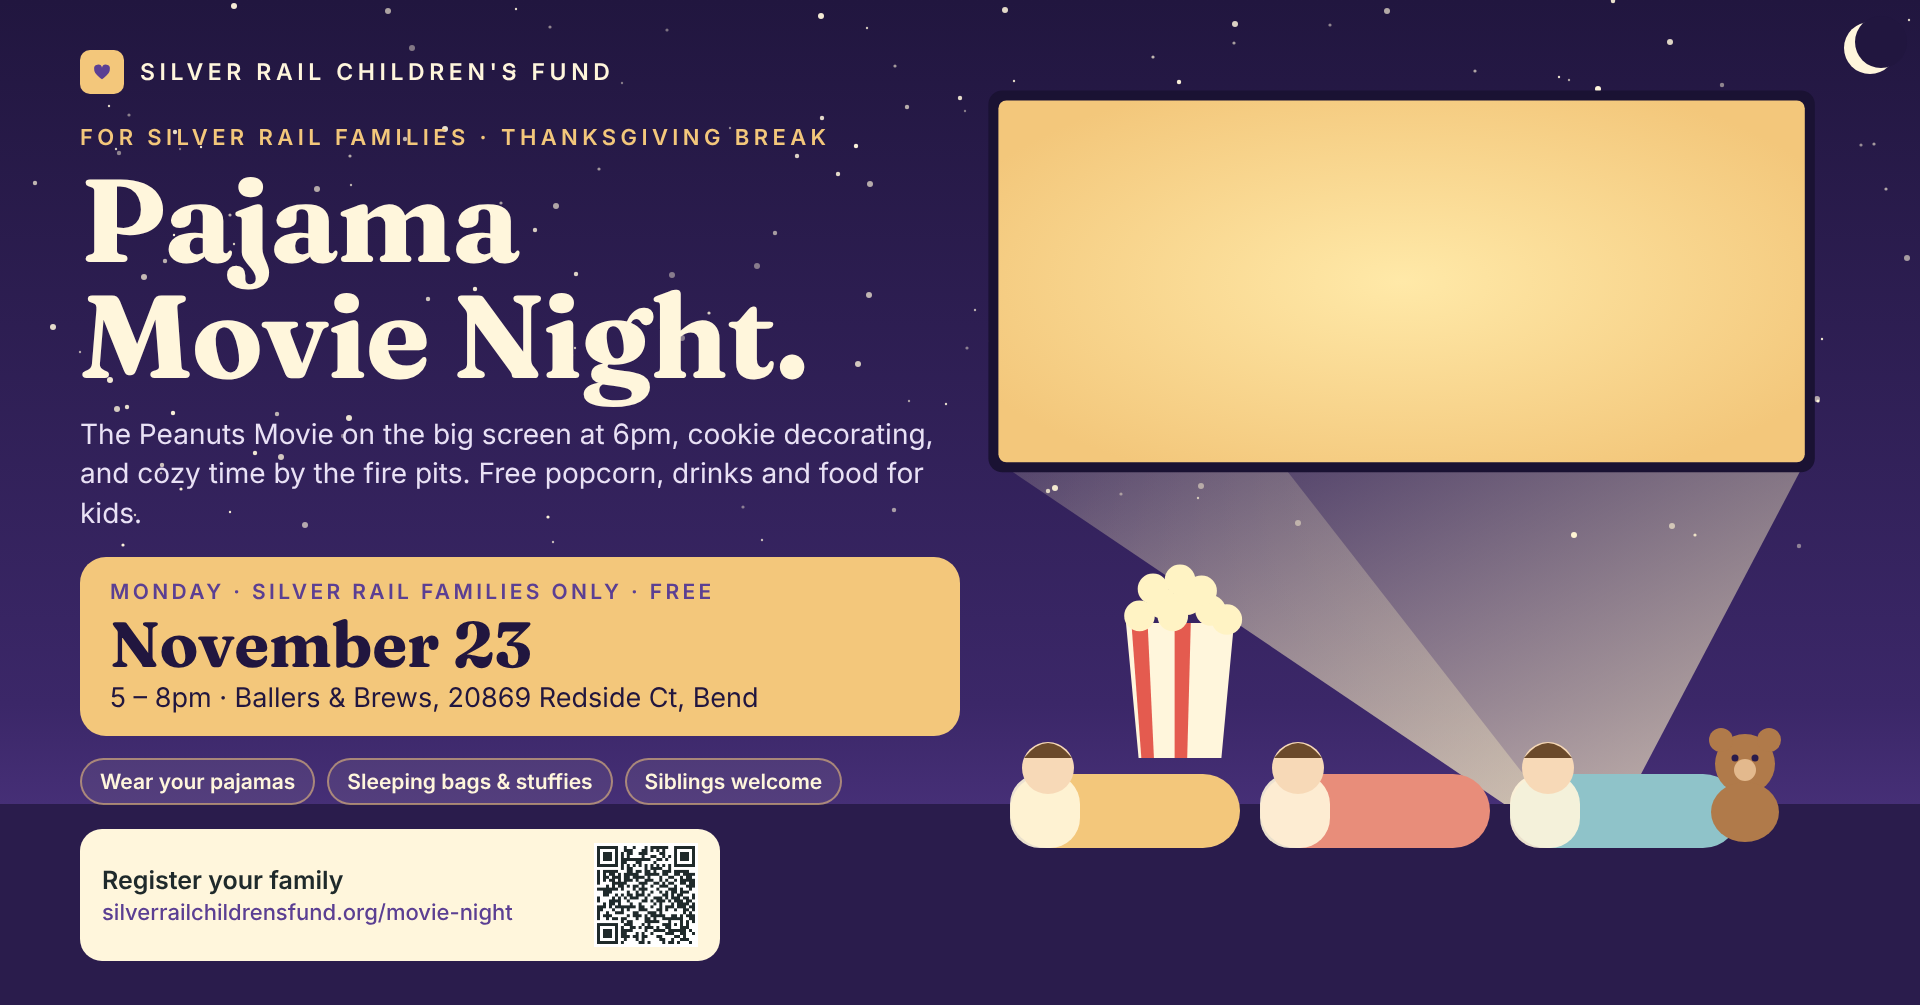
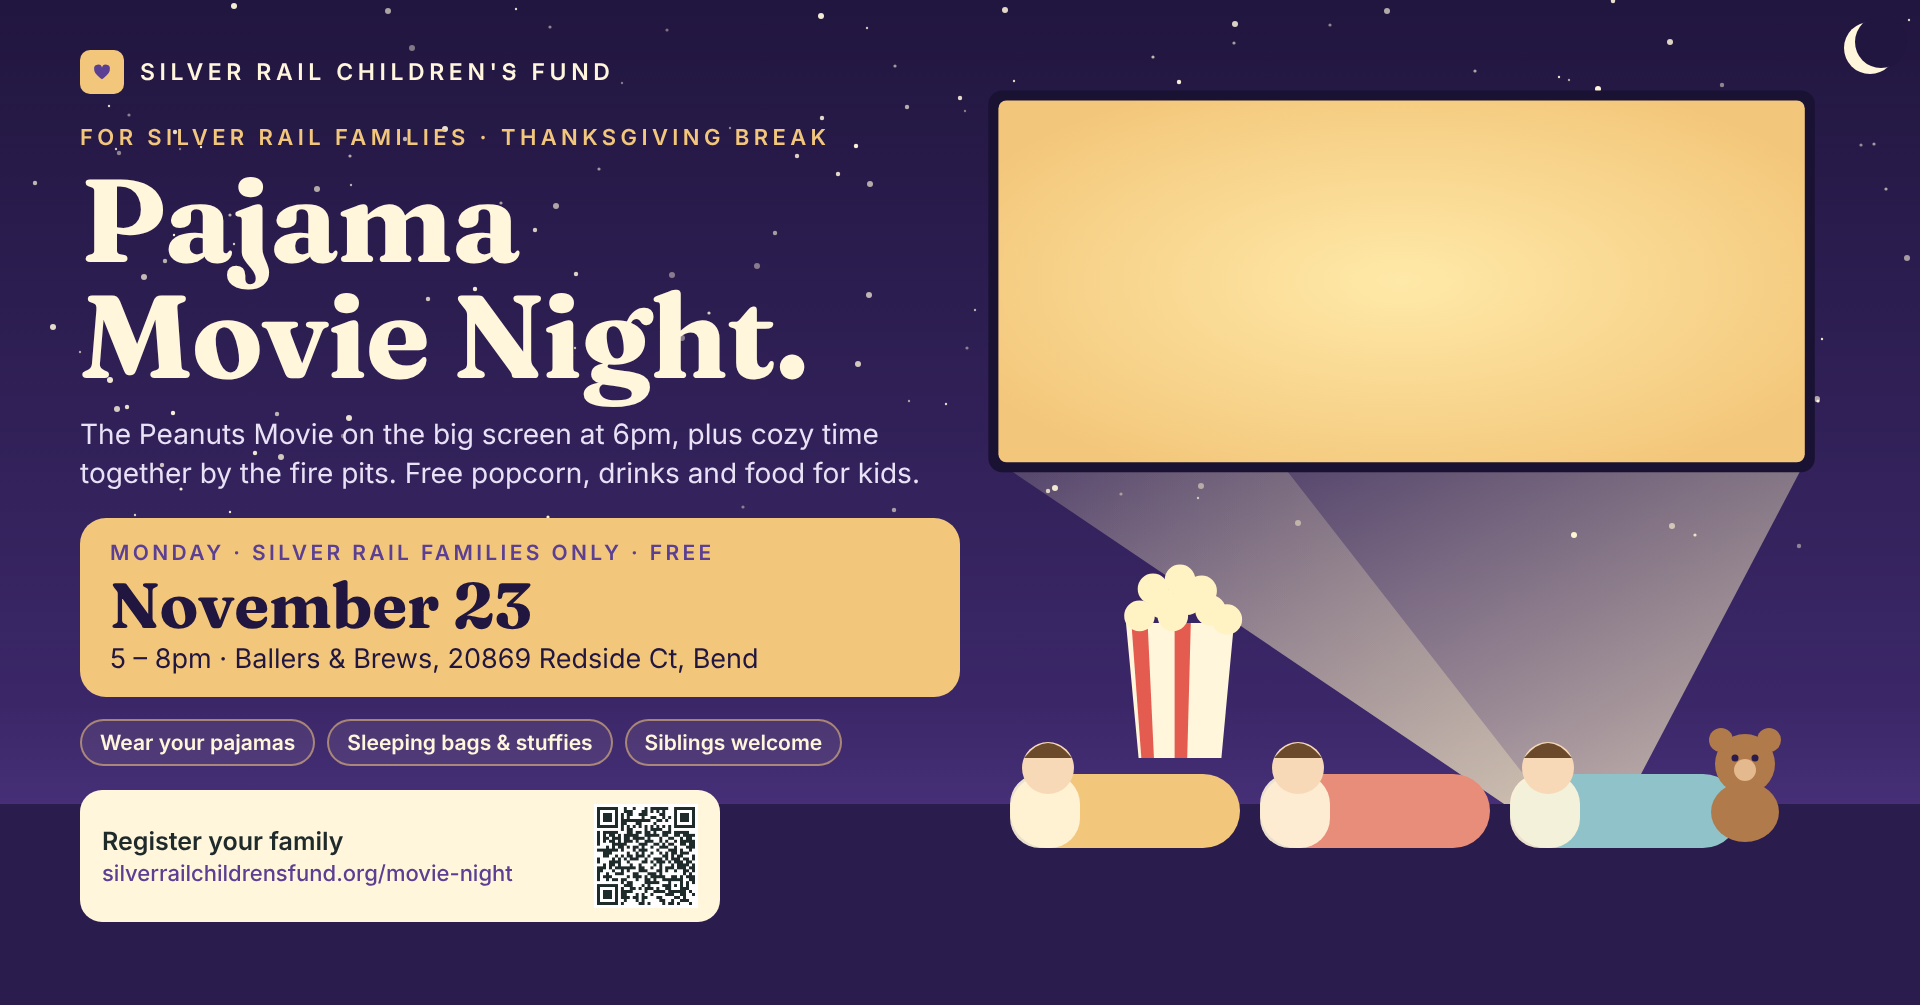
Movie night: remove cookie decorating
Claude-Session: https://claude.ai/code/session_01H4F1UGVh7mP2zmvnm3WNaY

Changed region(s): [[0.0312, 0.401, 0.5, 0.9562], [0.3438, 0.5861, 0.375, 0.6169]]

diff --git a/movie-night.html b/movie-night.html
@@ -4,11 +4,11 @@
 <meta charset="utf-8">
 <meta name="viewport" content="width=device-width, initial-scale=1">
 <title>Pajama Movie Night — Silver Rail Children's Fund</title>
-<meta name="description" content="A free pajama movie night for Silver Rail families at Ballers &amp; Brews in Bend, Monday Nov 23, 5 to 8 pm. The Peanuts Movie at 6, cookie decorating, fire pits, free popcorn and food for kids.">
+<meta name="description" content="A free pajama movie night for Silver Rail families at Ballers &amp; Brews in Bend, Monday Nov 23, 5 to 8 pm. The Peanuts Movie at 6, fire pits, free popcorn and food for kids.">
 <meta name="theme-color" content="#5B3F93">
 <link rel="canonical" href="https://silverrailchildrensfund.org/movie-night.html">
 <meta property="og:title" content="Pajama Movie Night — Silver Rail Children's Fund">
-<meta property="og:description" content="The Peanuts Movie, cookies and fire pits, just for Silver Rail families. Monday, Nov 23 at Ballers &amp; Brews.">
+<meta property="og:description" content="The Peanuts Movie and fire pits, just for Silver Rail families. Monday, Nov 23 at Ballers &amp; Brews.">
 <meta property="og:type" content="website">
 <meta property="og:url" content="https://silverrailchildrensfund.org/movie-night.html">
 <meta property="og:image" content="https://silverrailchildrensfund.org/assets/movie-night-facebook-event.png">
@@ -180,7 +180,7 @@ footer.sf .sf-legal a{color:var(--ink-2)}
   <div class="wrap">
     <div class="eyebrow">For Silver Rail families · Thanksgiving break · Ballers &amp; Brews, Bend</div>
     <h1>Pajama Movie Night.</h1>
-    <p class="lede"><b>Monday, November 23, 5 to 8 pm. The movie starts at 6.</b> <i>The Peanuts Movie</i> on the big screen, cookie decorating, and cozy time together by the fire pits. Free popcorn, drinks and food for kids, and free for every Silver Rail family. The fund pays.</p>
+    <p class="lede"><b>Monday, November 23, 5 to 8 pm. The movie starts at 6.</b> <i>The Peanuts Movie</i> on the big screen, plus cozy time together by the fire pits. Free popcorn, drinks and food for kids, and free for every Silver Rail family. The fund pays.</p>
     <a class="btn" href="#register">Register your family</a>
   </div>
 </div>

diff --git a/parents.html b/parents.html
@@ -180,7 +180,7 @@ footer.sf .sf-legal a{color:var(--ink-2)}
       <div>
         <div class="eyebrow">Monday, Nov 23 · 5–8 pm, movie at 6 · Ballers &amp; Brews, Bend · free</div>
         <h2 style="margin-bottom:.3em">Pajama Movie Night.</h2>
-        <p><i>The Peanuts Movie</i> on the big screen, cookie decorating and fire pits, just for Silver Rail families. Wear pajamas and bring a sleeping bag, pillow and stuffie. Free popcorn, drinks and food for kids.</p>
+        <p><i>The Peanuts Movie</i> on the big screen and fire pits, just for Silver Rail families. Wear pajamas and bring a sleeping bag, pillow and stuffie. Free popcorn, drinks and food for kids.</p>
         <p style="margin:0"><a class="btn" href="movie-night.html#register">Register your family</a> &nbsp; <a href="movie-night.html" style="font-weight:600">Details →</a></p>
       </div>
     </div>
